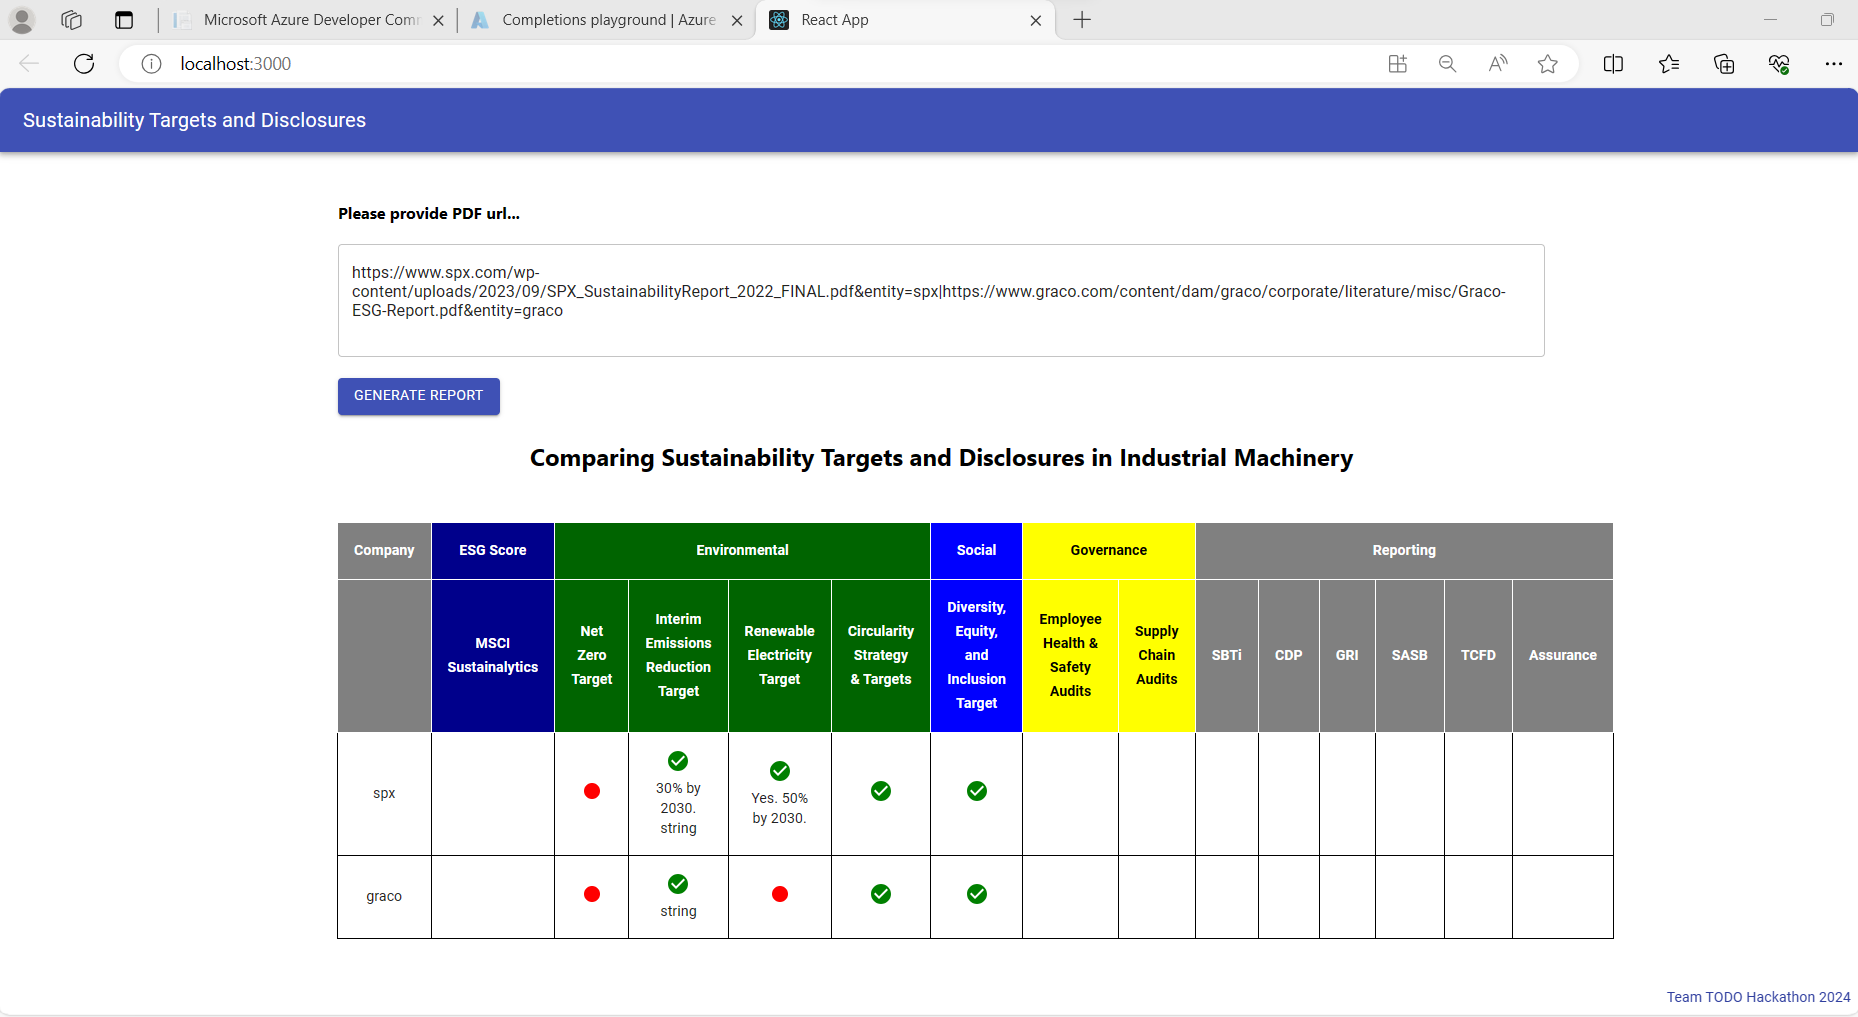
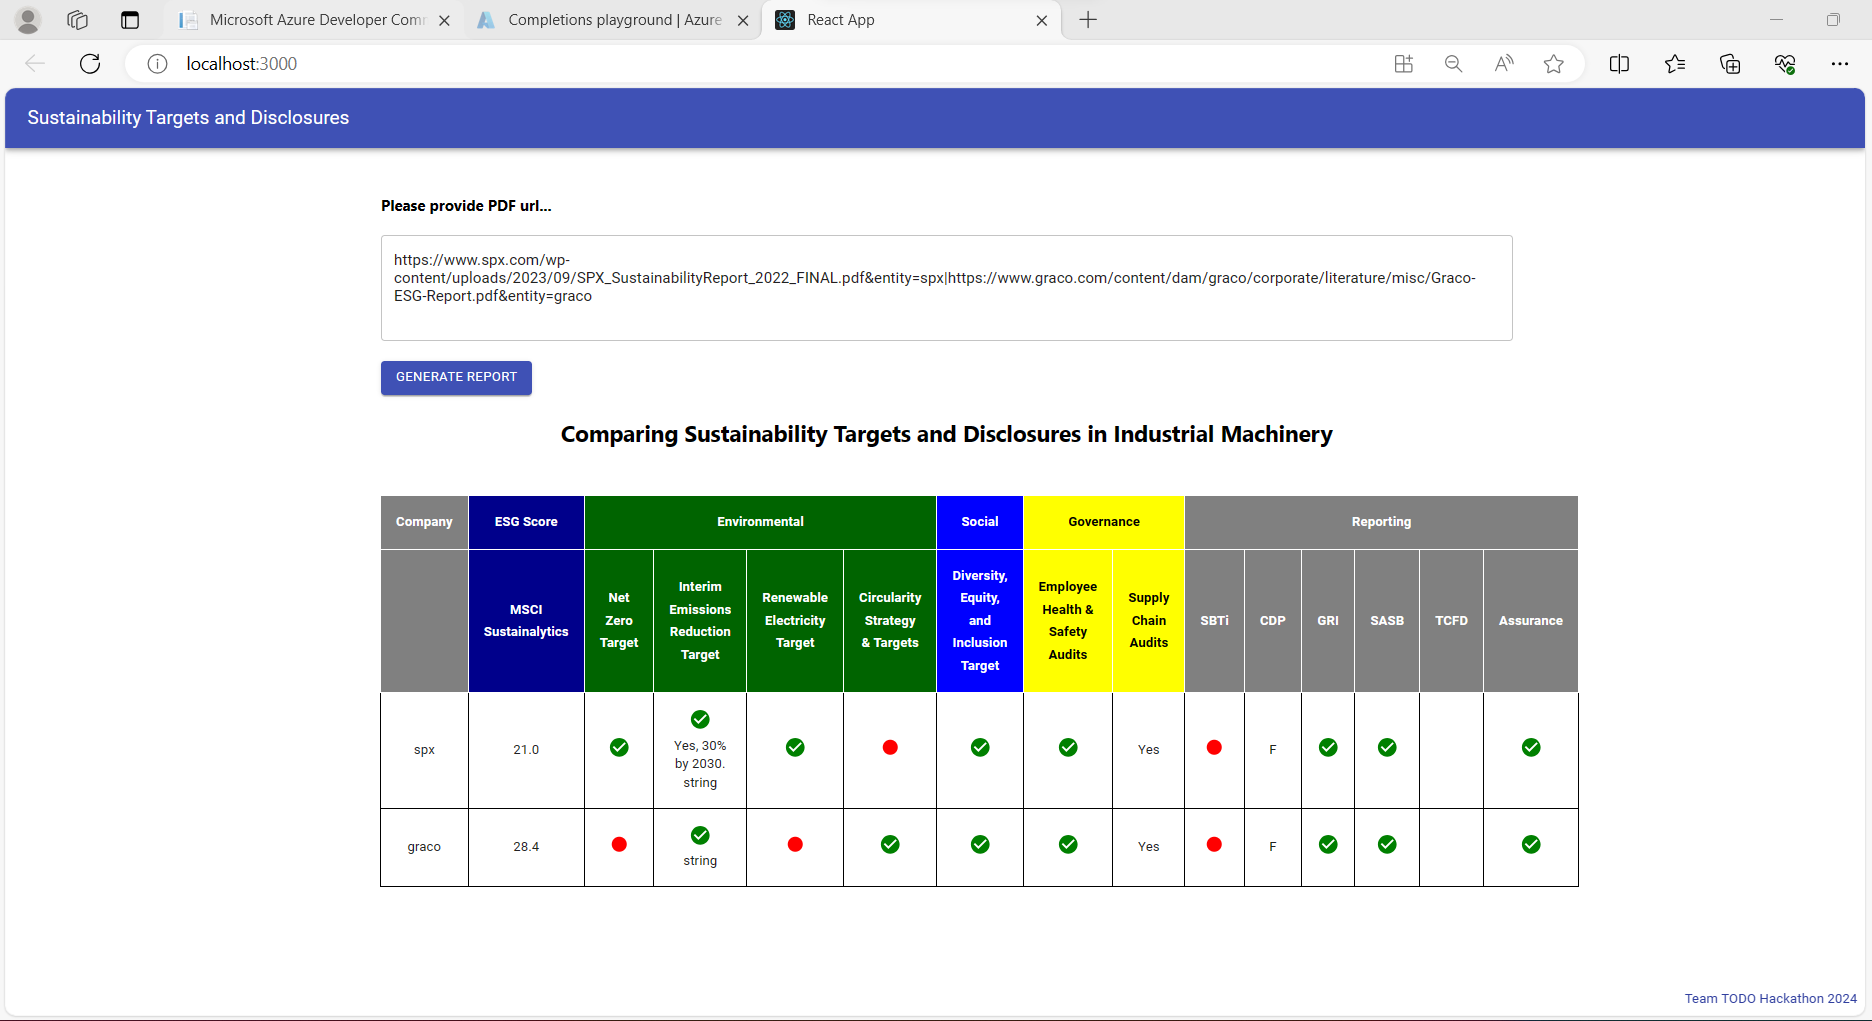
Updated Issues

diff --git a/PythonFiles/TODO.py b/PythonFiles/TODO.py
@@ -78,7 +78,7 @@ def getAnswersFromPDF(urls, entity):
                   completion = client.chat.completions.create(
                     model="test-aj", # model = "deployment_name"
                     messages = message_text,
-                    temperature=0.4,
+                    temperature=0.71,
                     max_tokens=800,
                     top_p=0.95,
                     frequency_penalty=0,
@@ -232,7 +232,7 @@ def getAnswersFromPDF(urls, entity):
                     "question": "what is the SBTi rating",
                     "esgType": "Reporting",
                     "esgIndicators": "SBTi",
-                    "primaryDetails": "",
+                    "primaryDetails": "No",
                     "secondaryDetails": "",
                     "citationDetails": "",
                     "pageNumber": 1
@@ -331,39 +331,37 @@ def getESGRating(entity):
   return ESG_rating
   
 def getCDPRating(entity):
-  CDP_entity={"graco" : 'https://www.cdp.net/en/responses?queries%5Bname%5D=graco',"nordson" :'https://www.cdp.net/en/responses?queries%5Bname%5D=Nordson',"spx":'https://www.cdp.net/en/responses/828001/SPX-Technologies-Inc?back_to=https%3A%2F%2Fwww.cdp.net%2Fen%2Fresponses%3Fqueries%255Bname%255D%3Dspx&queries%5Bname%5D=spx'}
-  # Send a GET request to the URL
-  response = requests.get(CDP_entity[entity])
+    CDP_entity={"graco" : 'https://www.cdp.net/en/responses?queries%5Bname%5D=graco',"nordson" :'https://www.cdp.net/en/responses?queries%5Bname%5D=Nordson',"spx":'https://www.cdp.net/en/responses/828001/SPX-Technologies-Inc?back_to=https%3A%2F%2Fwww.cdp.net%2Fen%2Fresponses%3Fqueries%255Bname%255D%3Dspx&queries%5Bname%5D=spx'}
+    # Send a GET request to the URL
+    response = requests.get(CDP_entity[entity])
 
-  # Parse the HTML content
-  sou# Parse the HTML content
-soup = BeautifulSoup(response.text, 'html.parser')
+    # Parse the HTML content
+    # Parse the HTML content
+    soup = BeautifulSoup(response.text, 'html.parser')
 
-# Find all <div> elements with class "investor-program__score_link"
-score_link_divs = soup.find_all('div', class_='investor-program__score_link')
+    # Find all <div> elements with class "investor-program__score_link"
+    score_link_divs = soup.find_all('div', class_='investor-program__score_link')
 
-# Flag to keep track if the score is found
-score_found = False
-# Iterate over each score link div
-for score_link_div in score_link_divs:
-    # Check if the score link div contains the specific score band div
-    score_band_div = score_link_div.find('div', class_='investor-program_score_band_single tooltip-top investor-program_score_band--climate-change')
-    if score_band_div:
-        # Find the parent <td> element containing the score band div
-        parent_td = score_band_div.find_parent('td', class_='search_results__response_score_band')
-        if parent_td:
-            # Extract the text content from the parent <td> element
-            score = parent_td.text.strip()
-            print("Climate Change Score:", score)
-            # Set flag to True to indicate score is found
-            score_found = True
-            # Break out of the loop once the score is found
-            break
-
-# If no score is found, print a message
-if not score_found:
-    print("No climate change score found on the page.")
-  return score
+    # Flag to keep track if the score is found
+    score_found = False
+    # Iterate over each score link div
+    for score_link_div in score_link_divs:
+        # Check if the score link div contains the specific score band div
+        score_band_div = score_link_div.find('div', class_='investor-program__score_band_single tooltip-top investor-program__score_band--climate-change')
+        if score_band_div:
+            # Find the parent <td> element containing the score band div
+            parent_td = score_band_div.find_parent('td', class_='search_results__response_score_band')
+            if parent_td:
+                # Extract the text content from the parent <td> element
+                score = parent_td.text.strip()
+                print("Climate Change Score:", score)
+                # Set flag to True to indicate score is found
+                score_found = True
+                # Break out of the loop once the score is found
+                return score
+                break
+            else:
+                return "No"
 
 
 @app.route('/ESGReport')  
